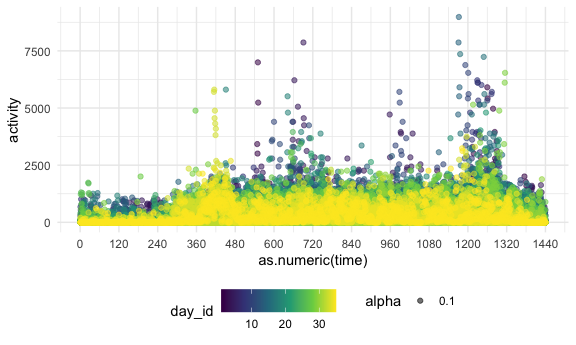
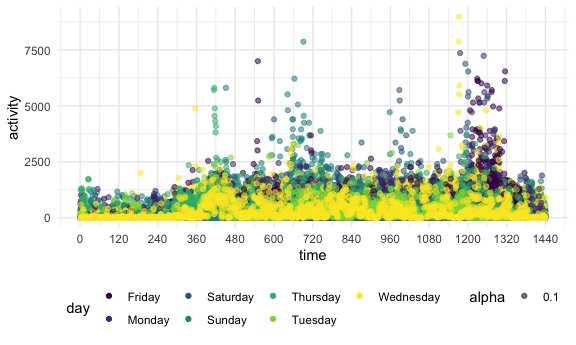
new

diff --git a/p8105_hw3_zh2494.md b/p8105_hw3_zh2494.md
@@ -350,6 +350,10 @@ accel =
     ## ℹ Use `spec()` to retrieve the full column specification for this data.
     ## ℹ Specify the column types or set `show_col_types = FALSE` to quiet this message.
 
+``` r
+view(accel)
+```
+
 ##### Traditional analyses of accelerometer data focus on the total activity over the day. Using your tidied dataset, aggregate accross minutes to create a total activity variable for each day, and create a table showing these totals. Are any trends apparent?
 
 ``` r
@@ -361,11 +365,47 @@ accel %>%
     values_to = "activity"
   ) %>%
   group_by(day_id) %>%
-  summarize(day_act = sum(activity)) %>% 
-  ggplot(aes(x = day_id, y = day_act)) + geom_point() + geom_line()
+  summarize(everyday_total = sum(activity)) %>%
+  knitr::kable()
 ```
 
-<img src="p8105_hw3_zh2494_files/figure-gfm/unnamed-chunk-14-1.png" width="90%" />
+| day\_id | everyday\_total |
+|--------:|----------------:|
+|       1 |       480542.62 |
+|       2 |        78828.07 |
+|       3 |       376254.00 |
+|       4 |       631105.00 |
+|       5 |       355923.64 |
+|       6 |       307094.24 |
+|       7 |       340115.01 |
+|       8 |       568839.00 |
+|       9 |       295431.00 |
+|      10 |       607175.00 |
+|      11 |       422018.00 |
+|      12 |       474048.00 |
+|      13 |       423245.00 |
+|      14 |       440962.00 |
+|      15 |       467420.00 |
+|      16 |       685910.00 |
+|      17 |       382928.00 |
+|      18 |       467052.00 |
+|      19 |       371230.00 |
+|      20 |       381507.00 |
+|      21 |       468869.00 |
+|      22 |       154049.00 |
+|      23 |       409450.00 |
+|      24 |         1440.00 |
+|      25 |       260617.00 |
+|      26 |       340291.00 |
+|      27 |       319568.00 |
+|      28 |       434460.00 |
+|      29 |       620860.00 |
+|      30 |       389080.00 |
+|      31 |         1440.00 |
+|      32 |       138421.00 |
+|      33 |       549658.00 |
+|      34 |       367824.00 |
+|      35 |       445366.00 |
 
 ##### Accelerometer data allows the inspection activity over the course of the day. Make a single-panel plot that shows the 24-hour activity time courses for each day and use color to indicate day of the week. Describe in words any patterns or conclusions you can make based on this graph.
 
@@ -377,10 +417,11 @@ accel %>%
     names_prefix = "activity.",
     values_to = "activity"
   ) %>%
-  ggplot(aes(x = as.numeric(time), y = activity)) + geom_point(aes(color = day_id, alpha = .1)) +
+  mutate(time = as.numeric(time)) %>% 
+  ggplot(aes(x = time, y = activity)) + geom_point(aes(color = day, alpha = .1)) +
   scale_x_continuous(
     breaks = c(seq(from = 0, to = 1440, by = 120)),
-    labels = c(as.character(seq(from = 0, to = 1440, by = 120))))
+    labels = c((seq(from = 0, to = 1440, by = 120))))
 ```
 
 <img src="p8105_hw3_zh2494_files/figure-gfm/unnamed-chunk-15-1.png" width="90%" />
